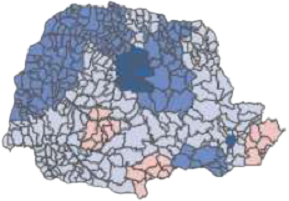
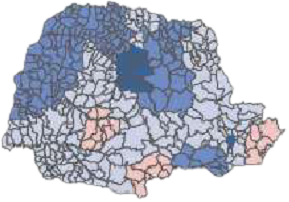
Criação da tela de SIR e edição de imagens

diff --git a/src/app/sir/sir.page.html b/src/app/sir/sir.page.html
@@ -2,5 +2,113 @@
 </ion-header>
 
 <ion-content>
-SIR
+<br>
+<ion-list>
+    <ion-item>
+        <ion-label>Ano: </ion-label>
+        <ion-select placeholder="" [(ngModel)]="year" (ionChange)="getMap(year); getArrayData(year)">
+          <ion-select-option>2012</ion-select-option>
+          <ion-select-option>2013</ion-select-option>
+          <ion-select-option>2014</ion-select-option>
+          <ion-select-option>2015</ion-select-option>
+          <ion-select-option>2016</ion-select-option>
+          <ion-select-option>2017</ion-select-option>
+          <ion-select-option>2018</ion-select-option>
+          <ion-select-option>2019</ion-select-option>
+        </ion-select>
+    </ion-item>
+    <br><br>
+</ion-list>
+
+<h5 *ngIf="year == ''" style="text-align: center">Selecione um ano</h5>
+
+    <table>
+        <tr>
+            <td>
+                <div id="map" style="background-image: url('assets/{{imageName}}')">
+                    <table *ngIf="year > 0" id="table_pins">
+                        <tr>
+                            <td> </td>
+                            <td> </td>
+                            <td> </td>
+                            <td><ion-icon class="pin" (click)="getData(16)" style="cursor:pointer" name="pin-sharp"></ion-icon></td>
+                            <td> <ion-icon class="pin" (click)="getData(17)" style="cursor:pointer" name="pin-sharp"></ion-icon></td>
+                            <td><ion-icon class="pin" (click)="getData(19)" style="cursor:pointer" name="pin-sharp"></ion-icon></td>
+                        </tr>
+                        <tr>
+                            <td> </td>
+                            <td> </td>
+                            <td><ion-icon class="pin" (click)="getData(15)" style="cursor:pointer" name="pin-sharp"></ion-icon></td>
+                            <td> </td>
+                            <td> </td>
+                            <td><ion-icon class="pin" (click)="getData(20)" style="cursor:pointer" name="pin-sharp"></ion-icon></td>
+                            <td style="margin-left: 10px;"><ion-icon class="pin" (click)="getData(21)" style="cursor:pointer" name="pin-sharp"></ion-icon></td>
+                            <td><ion-icon class="pin" style="cursor:pointer" (click)="getData(23)" name="pin-sharp"></ion-icon></td>
+                        </tr>
+                        <tr>
+                            <td> </td>
+                            <td> </td>
+                            <td> </td>
+                            <td><ion-icon class="pin" (click)="getData(14)" style="cursor:pointer" name="pin-sharp"></ion-icon></td>
+                            <td><ion-icon class="pin" (click)="getData(18)" style="cursor:pointer" name="pin-sharp"></ion-icon></td>
+                            <td></td>
+                            <td><ion-icon class="pin" (click)="getData(22)" style="cursor:pointer" name="pin-sharp"></ion-icon></td>
+                        </tr>  
+                        <tr>
+                            <td></td>
+                            <td ><ion-icon class="pin" (click)="getData(13)" style="cursor:pointer" name="pin-sharp"></ion-icon> </td>
+                            <td> </td>
+                            <td> </td>
+                            <td> <ion-icon class="pin" (click)="getData(7)" style="cursor:pointer" name="pin-sharp"></ion-icon></td>
+                            <td></td>
+                            <td> </td>
+                            <td style="margin-left: 19px;"><ion-icon class="pin" (click)="getData(4)" style="cursor:pointer" name="pin-sharp"></ion-icon></td>
+                            <td></td>
+                            <td style="padding-top: 2px;"><ion-icon class="pin" (click)="getData(2)" style="cursor:pointer" name="pin-sharp"></ion-icon></td>
+                        </tr>
+                        <tr>
+                            <td><ion-icon class="pin" (click)="getData(12)" style="cursor:pointer" name="pin-sharp"></ion-icon></td>
+                            <td> </td>
+                            <td><ion-icon class="pin" (click)="getData(11)" style="cursor:pointer" name="pin-sharp"></ion-icon></td>
+                            <td><ion-icon class="pin" (click)="getData(8)" style="cursor:pointer" name="pin-sharp"></ion-icon></td>
+                            <td> </td>
+                            <td> </td>
+                            <td> </td>
+                            <td> </td>
+                            <td style="padding-left: 0px; padding-top: 8px;"><ion-icon class="pin" (click)="getData(1)" style="cursor:pointer" name="pin-sharp"></ion-icon></td>
+                            <td style="padding-top: 0px;"><ion-icon class="pin" (click)="getData(3)" style="cursor:pointer" name="pin-sharp"></ion-icon></td>
+                        </tr>
+                        <tr>
+                            <td> </td>
+                            <td><ion-icon class="pin" (click)="getData(10)" style="cursor:pointer" name="pin-sharp"></ion-icon></td>
+                            <td> </td>
+                            <td><ion-icon class="pin" (click)="getData(9)" style="cursor:pointer" name="pin-sharp"></ion-icon></td>
+                            <td> </td>
+                            <td><ion-icon class="pin" (click)="getData(6)" style="cursor:pointer" name="pin-sharp"></ion-icon></td>
+                            <td> </td>
+                            <td><ion-icon class="pin" (click)="getData(5)" style="cursor:pointer" name="pin-sharp"></ion-icon></td>
+                        </tr>
+                    </table>
+                </div>
+            </td>
+            <td>
+                <div *ngIf="year > 0" id="legend" style="background-image: url('assets/{{legendImage}}');"></div>
+            </td>
+        </tr>
+    </table>
+
+    <table id="range" *ngIf="year > 0">
+        <tr>
+            <td id="arrow">
+                <ion-icon name="caret-back-outline"></ion-icon>
+            </td>
+            <td>
+                <ion-range [ticks]="true" [snaps]="true" [min]="1" [max]="12" (ionKnobMoveEnd)="getMonthValue($event)" [(ngModel)]="mounth"></ion-range>
+                <ion-label> {{ monthName }}</ion-label>
+            </td>
+            <td id="arrow">
+                <ion-icon name="caret-forward-outline"></ion-icon>
+            </td>
+        </tr>
+    </table>
 </ion-content>

diff --git a/src/app/sir/sir.page.ts b/src/app/sir/sir.page.ts
@@ -1,4 +1,8 @@
 import { Component, OnInit } from '@angular/core';
+import { RangeValue } from '@ionic/core';
+import { AlertController, RangeCustomEvent } from '@ionic/angular';
+import { Router } from '@angular/router';
+import { DataService, Data } from '../services/data.service';
 
 @Component({
   selector: 'app-sir',
@@ -6,10 +10,101 @@ import { Component, OnInit } from '@angular/core';
   styleUrls: ['./sir.page.scss'],
 })
 export class SirPage implements OnInit {
+  monthValue: RangeValue;
+  monthName: string = "Janeiro";
+  month: number = 1;
+  imageName = "imgStart.png";
+  year: number = 0;
+  legendImage = "imgStart.png";
+  arrayData: Data[] = [];
+  regions: string[] = [
+    "Curitiba", "São José dos Pihais", "Paranaguá", "Ponta Grossa", "São Mateus do Sul", "União da Vitória",
+    "Guarapuava", "Laranjeiras do Sul", "Pato Branco", "Francisco Beltrão", "Cascavel", "Foz do Iguaçu", 
+    "Toledo", "Campo Mourão", "Umuarama", "Paranavaí", "Maringá", "Apucarana", "Rolândia", "Londrina", 
+    "Cornélio Procópio", "Telêmaco Borba","Jacarezinho"
+  ]
 
-  constructor() { }
+  constructor(
+    private router: Router,
+    private dataService: DataService,
+    private alertController: AlertController
+  ) { }
+
+  getMonthValue(ev: Event) {
+    this.monthValue = (ev as RangeCustomEvent).detail.value;
+    this.month = parseInt(this.monthValue.toString());
+    this.getMap(this.year);
+
+    if(this.monthValue == 1){
+      this.monthName= "Janeiro";
+    }else if(this.monthValue == 2){
+      this.monthName = "Fevereiro";
+    }else if(this.monthValue == 3){
+      this.monthName = "Março";
+    }else if(this.monthValue == 4){
+      this.monthName = "Abril";
+    }else if(this.monthValue == 5){
+      this.monthName = "Maio";
+    }else if(this.monthValue == 6){
+      this.monthName = "Junho";
+    }else if(this.monthValue == 7){
+      this.monthName = "Julho";
+    }else if(this.monthValue == 8){
+      this.monthName = "Agosto";
+    }else if(this.monthValue == 9){
+      this.monthName = "Setembro";
+    }else if(this.monthValue == 10){
+      this.monthName = "Outubro";
+    }else if(this.monthValue == 11){
+      this.monthName = "Novembro";
+    }else if(this.monthValue == 12){
+      this.monthName = "Dezembro";
+    }
+  }
 
   ngOnInit() {
   }
 
+  getMap(year){
+    this.year = year;
+    this.imageName = "sir/"+ this.year + "/" + this.month +"-"+ year+".png";
+    this.legendImage = "sir/"+ this.year + "/" + "legend.png";
+  }
+
+  backMonth(){
+    console.log(this.month);
+  }
+
+  nextMoth(){
+    console.log(this.month);
+  }
+
+  async getArrayData(year){
+    this.dataService.getData(year).subscribe(res => {
+      this.arrayData = res;
+    }); 
+  }
+
+  getData(n){
+    console.log(this.regions[n - 1])
+    for (let l of this.arrayData) {
+      if((l.name == n) && (l.year == this.year) && (l.month  = this.month)){
+        let header = this.regions[n - 1];
+        let msg = " Período: "+ this.monthName + "/" + this.year + "<br>" +
+       " Crimes: "+ l.crimes + "<br>" +
+        " População: "+ l.population + "<br>" +
+        " SIR: "+ l.sir + "<br>";
+        this.showAlert(header, msg)
+      }
+    }
+  }
+
+  async showAlert(header, message) {
+    const alert = await this.alertController.create({
+      header,
+      message,
+      buttons: ['OK'],
+    });
+    await alert.present();
+  }
 }

diff --git a/src/app/sir/sir.page.scss b/src/app/sir/sir.page.scss
@@ -1,0 +1,96 @@
+#map {
+    border: 2px solid rgb(255, 255, 255);
+    width: 300px;
+    weight: 150px;
+    text-align: center;
+    align-items: center;
+    background-size: 100%;
+    padding-bottom: 32px;
+   //background-repeat: no-repeat;
+  }
+
+  #legend {
+   // border: 2px solid blue;
+    width: 80px;
+    weight: 10px;
+    text-align: right;
+    align-items: right;
+    background-size: 100%;
+    padding-bottom: 200px;
+    background-repeat: no-repeat;
+  }
+
+  ion-range::part(tick) {
+    background: #000000;
+  }
+
+  ion-range::part(tick-active) {
+    background:  #000000;
+  }
+
+  ion-range::part(pin) {
+    display: inline-flex;
+    align-items: center;
+    justify-content: center;
+  
+    background: #0b5722;
+    color: #fff;
+  
+    border-radius: 50%;
+    transform: scale(1.01);
+  
+    top: -20px;
+  
+    min-width: 28px;
+    height: 28px;
+    transition: transform 120ms ease, background 120ms ease;
+  }
+  
+  ion-range::part(knob) {
+    background: #0b5722;
+  }
+  
+  ion-range::part(bar) {
+    background: #000000;
+  }
+
+  ion-range::part(bar-active) {
+    background: #000000;
+  }
+
+  ion-icon {
+    font-size: 60px; //Preferred size here
+  }
+
+  #arrow {
+    width:10%;
+  //  border: 1px solid;
+    align-items: center;
+    text-align: center;
+  }
+  
+  #range {
+    width: 100%; 
+    weigth: 20%;
+    align-items: center;
+    text-align: center;
+    margin-top: 60px;
+   // border: 1px solid;
+  }
+ 
+  .pin {
+    font-size: 22px;
+  }
+
+  #table_pins{
+    width: 270px; 
+    margin-left: 5px; 
+    margin-top: 2px; 
+    weight: 400px; 
+    margin-top: 8px;
+    //border: 1px solid blue;"
+    td {
+     height: 13px; 
+     width: 13px;
+    }
+  }

diff --git a/src/app/rr/rr.page.scss b/src/app/rr/rr.page.scss
@@ -5,7 +5,7 @@
     text-align: center;
     align-items: center;
     background-size: 100%;
-    padding-bottom: 31px;
+    padding-bottom: 32px;
    //background-repeat: no-repeat;
   }
 
